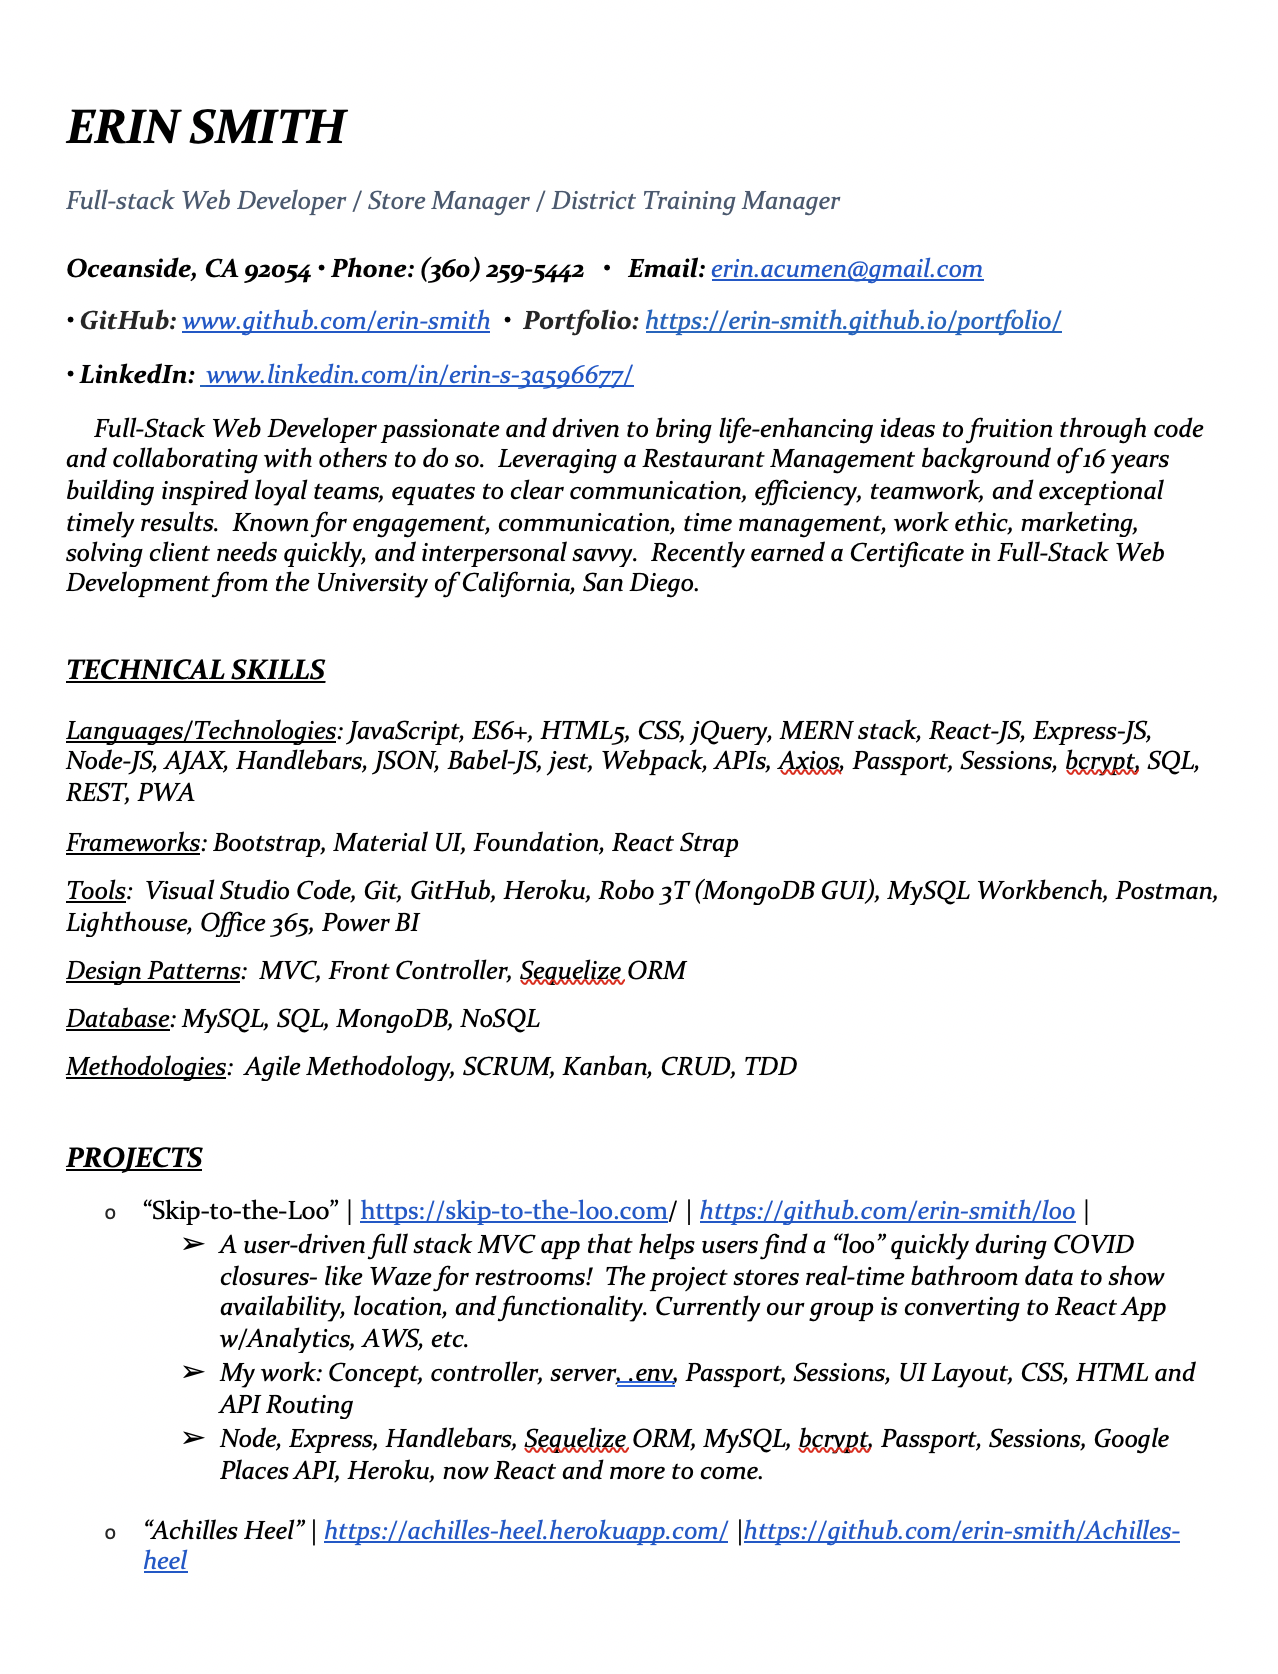
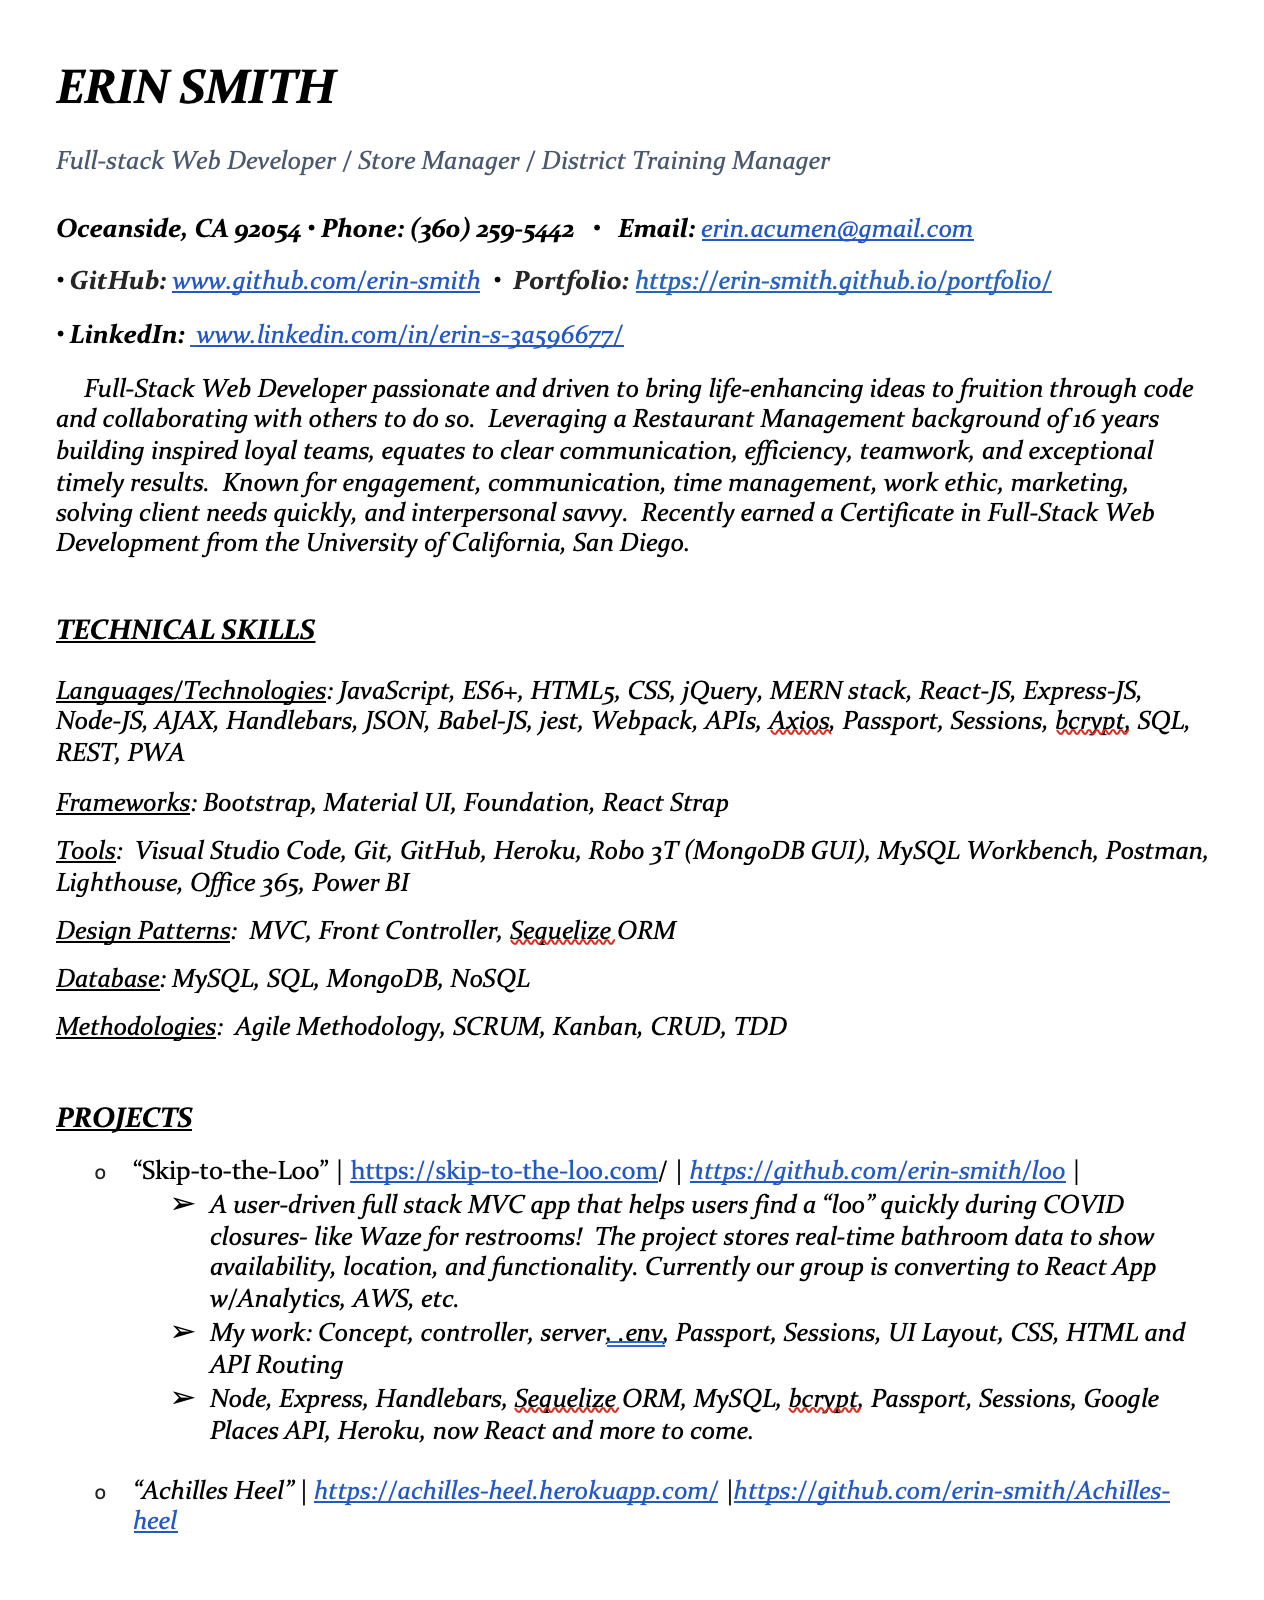
render sizing fluid

Changed region(s): [[0.0309, 0.0312, 0.9565, 0.6562], [0.0309, 0.6875, 0.9565, 0.9688], [0.8022, 0.5312, 0.9565, 0.5625]]

diff --git a/style.css b/style.css
@@ -40,7 +40,7 @@ h2 {
 }
 
 #thumb{
-  width: 70%;
+  width: 69%;
 }
 
 a {
